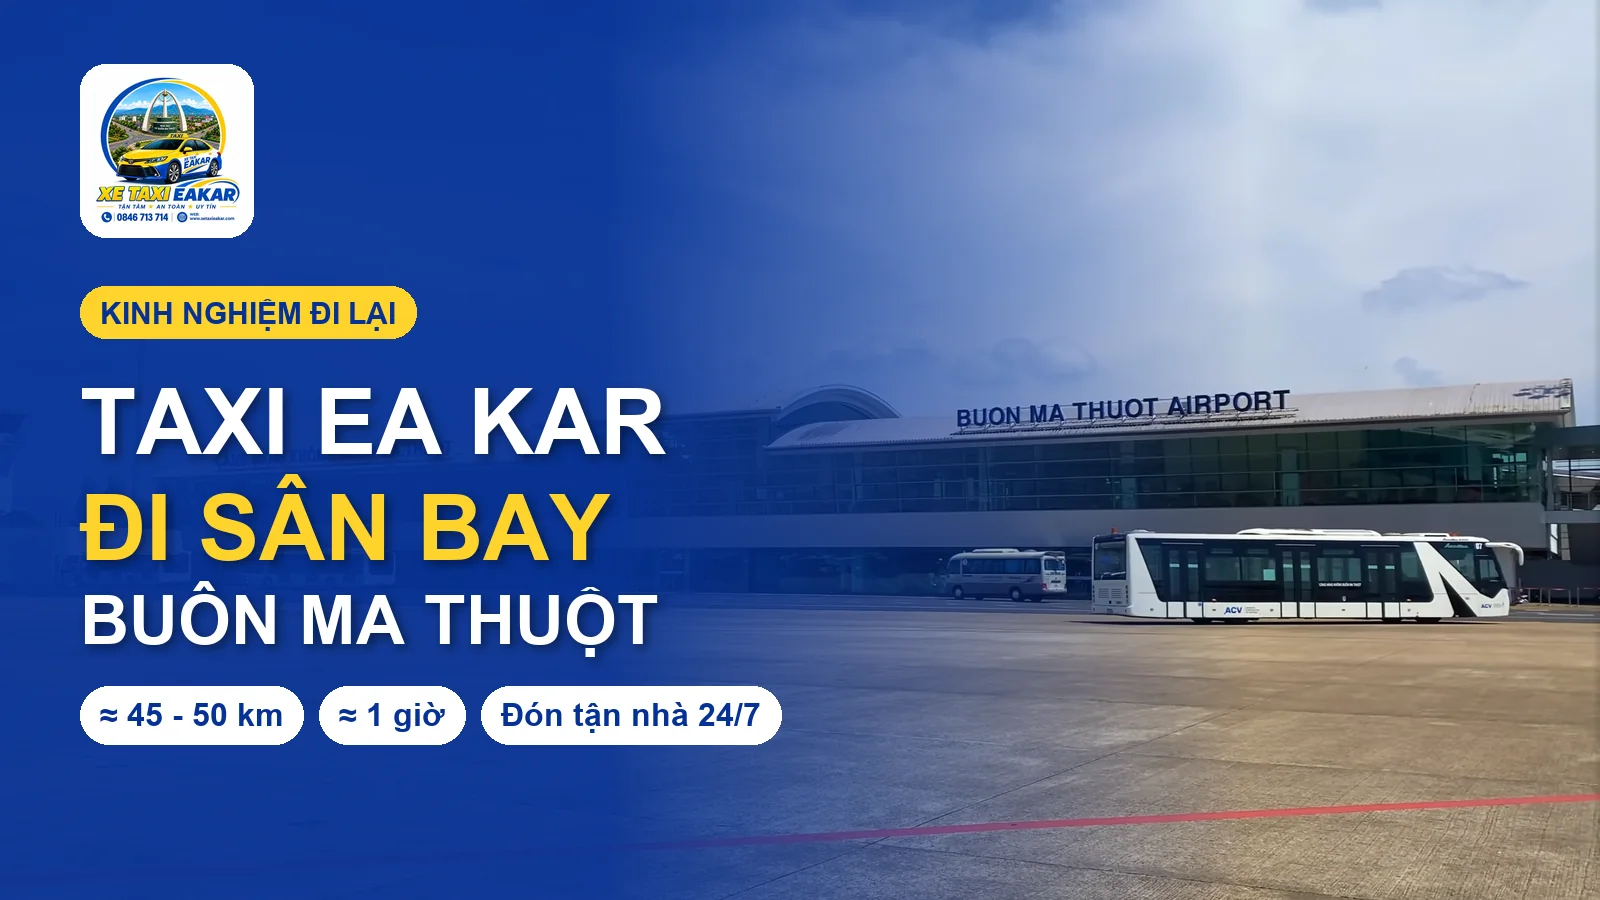
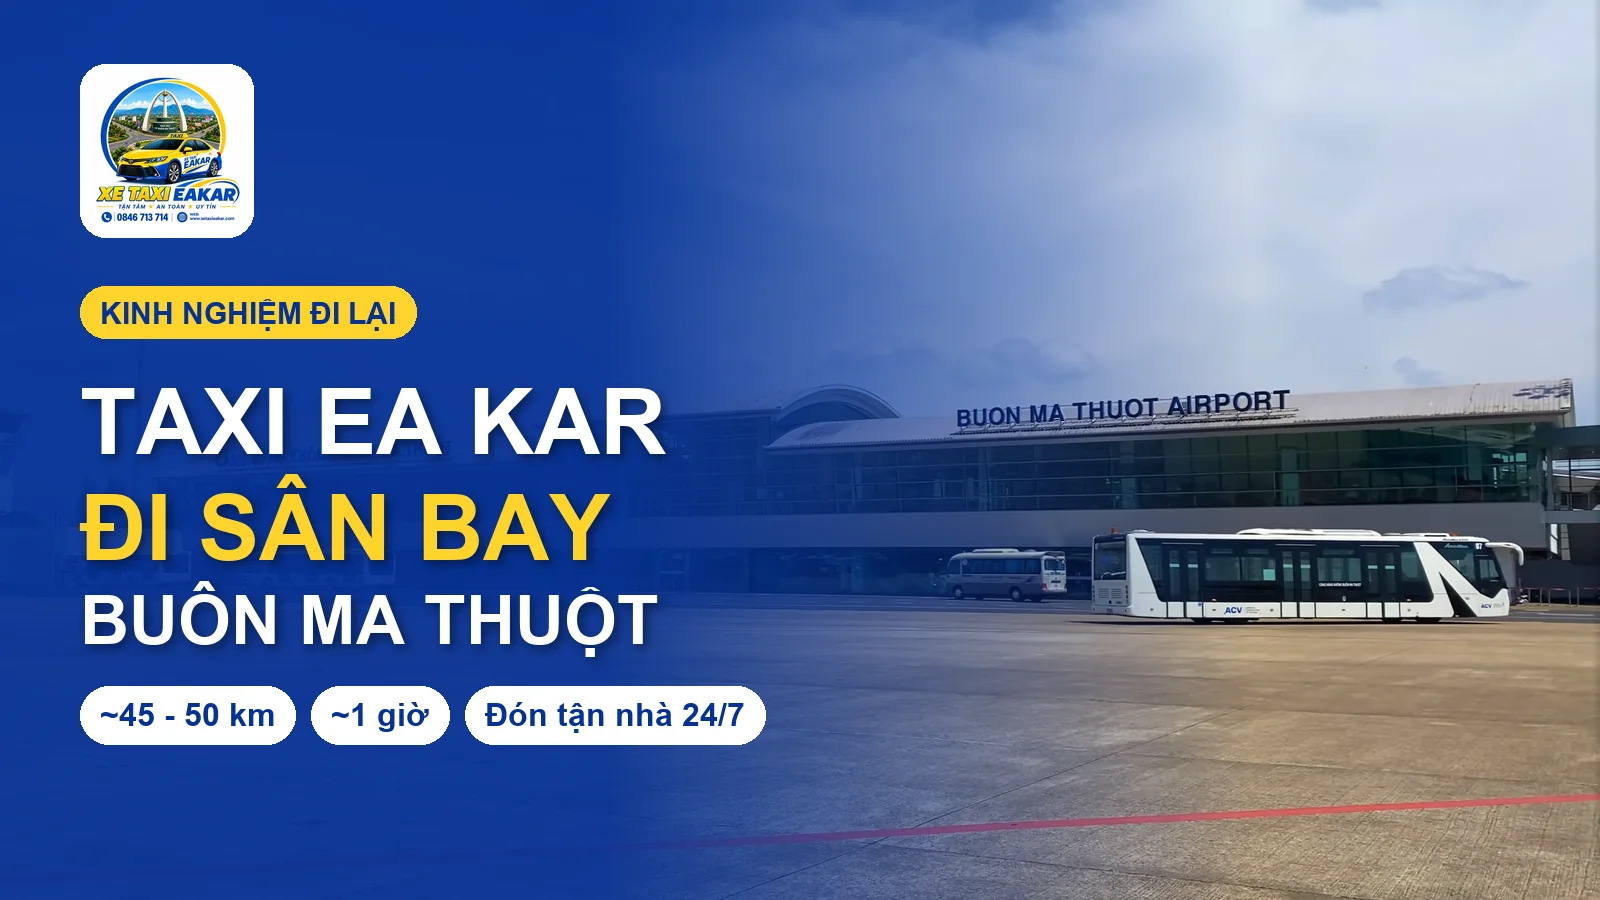
draft: taxieakar airport post - full image captions, no credit line, "~" chips on cover; mark approved

Changed region(s): [[0.0625, 0.7467, 0.5, 0.84]]

diff --git a/public/taxieakar.com.vn/taxi-ea-kar-di-san-bay-buon-ma-thuot/index.html b/public/taxieakar.com.vn/taxi-ea-kar-di-san-bay-buon-ma-thuot/index.html
@@ -255,14 +255,14 @@
 
                 <figure class="tv-gallery tv-gallery--wide" data-gallery aria-label="Hình ảnh sân bay Buôn Ma Thuột">
                   <ul class="tv-gallery-track">
-                    <li class="tv-gallery-item"><div class="tv-gallery-media" data-full="nha-ga-nhin-tu-san-do-1600.webp" data-review-img><span class="tv-gallery-no">01</span><img src="nha-ga-nhin-tu-san-do-720.webp" alt="Nhà ga Cảng hàng không Buôn Ma Thuột nhìn từ sân đỗ máy bay" width="720" height="540" loading="lazy" /></div><p class="tv-gallery-cap">Nhà ga sân bay Buôn Ma Thuột</p></li>
-                    <li class="tv-gallery-item"><div class="tv-gallery-media" data-full="sanh-lam-thu-tuc-1600.webp" data-review-img><span class="tv-gallery-no">02</span><img src="sanh-lam-thu-tuc-720.webp" alt="Sảnh làm thủ tục check-in bên trong nhà ga sân bay Buôn Ma Thuột" width="720" height="540" loading="lazy" /></div><p class="tv-gallery-cap">Sảnh làm thủ tục check-in</p></li>
-                    <li class="tv-gallery-item"><div class="tv-gallery-media" data-full="hanh-khach-ra-may-bay-1600.webp" data-review-img><span class="tv-gallery-no">03</span><img src="hanh-khach-ra-may-bay-720.webp" alt="Hành khách kéo hành lý đi bộ trên sân đỗ trước nhà ga sân bay Buôn Ma Thuột" width="720" height="540" loading="lazy" /></div><p class="tv-gallery-cap">Hành khách ra tàu bay</p></li>
-                    <li class="tv-gallery-item"><div class="tv-gallery-media" data-full="san-do-may-bay-1600.webp" data-review-img><span class="tv-gallery-no">04</span><img src="san-do-may-bay-720.webp" alt="Máy bay đỗ trên sân đỗ sân bay Buôn Ma Thuột" width="720" height="540" loading="lazy" /></div><p class="tv-gallery-cap">Máy bay trên sân đỗ</p></li>
+                    <li class="tv-gallery-item"><div class="tv-gallery-media" data-full="nha-ga-nhin-tu-san-do-1600.webp" data-review-img><span class="tv-gallery-no">01</span><img src="nha-ga-nhin-tu-san-do-720.webp" alt="Nhà ga Cảng hàng không Buôn Ma Thuột nhìn từ sân đỗ máy bay" width="720" height="540" loading="lazy" /></div><p class="tv-gallery-cap">Nhà ga Cảng hàng không Buôn Ma Thuột nhìn từ sân đỗ, nằm ở phía đông thành phố, phía cửa ngõ đi từ Ea Kar lên.</p></li>
+                    <li class="tv-gallery-item"><div class="tv-gallery-media" data-full="sanh-lam-thu-tuc-1600.webp" data-review-img><span class="tv-gallery-no">02</span><img src="sanh-lam-thu-tuc-720.webp" alt="Sảnh làm thủ tục check-in bên trong nhà ga sân bay Buôn Ma Thuột" width="720" height="540" loading="lazy" /></div><p class="tv-gallery-cap">Sảnh làm thủ tục bên trong nhà ga. Có mặt trước giờ bay 90 phút đến 2 tiếng để check-in và gửi hành lý thoải mái.</p></li>
+                    <li class="tv-gallery-item"><div class="tv-gallery-media" data-full="hanh-khach-ra-may-bay-1600.webp" data-review-img><span class="tv-gallery-no">03</span><img src="hanh-khach-ra-may-bay-720.webp" alt="Hành khách kéo hành lý đi bộ trên sân đỗ trước nhà ga sân bay Buôn Ma Thuột" width="720" height="540" loading="lazy" /></div><p class="tv-gallery-cap">Hành khách kéo hành lý đi bộ ra tàu bay trên sân đỗ trước nhà ga sân bay Buôn Ma Thuột.</p></li>
+                    <li class="tv-gallery-item"><div class="tv-gallery-media" data-full="san-do-may-bay-1600.webp" data-review-img><span class="tv-gallery-no">04</span><img src="san-do-may-bay-720.webp" alt="Máy bay đỗ trên sân đỗ sân bay Buôn Ma Thuột" width="720" height="540" loading="lazy" /></div><p class="tv-gallery-cap">Máy bay đỗ chờ đón khách trên sân đỗ. Sân bay khai thác các chuyến bay nội địa đi Hà Nội, TP. Hồ Chí Minh và một số tỉnh thành khác.</p></li>
                   </ul>
                   <button type="button" class="tv-gallery-btn tv-gallery-btn--prev" aria-label="Ảnh trước"><svg viewBox="0 0 24 24" fill="none" stroke="currentColor" stroke-width="2.6" stroke-linecap="round" stroke-linejoin="round"><path d="m15 18-6-6 6-6"/></svg></button>
                   <button type="button" class="tv-gallery-btn tv-gallery-btn--next" aria-label="Ảnh tiếp theo"><svg viewBox="0 0 24 24" fill="none" stroke="currentColor" stroke-width="2.6" stroke-linecap="round" stroke-linejoin="round"><path d="m9 18 6-6-6-6"/></svg></button>
-                  <figcaption class="tv-gallery-caption">Bấm vào ảnh để xem lớn. Nhà ga, sảnh làm thủ tục và sân đỗ của Cảng hàng không Buôn Ma Thuột.</figcaption>
+                  <figcaption class="tv-gallery-caption">Một vòng Cảng hàng không Buôn Ma Thuột: nhà ga, sảnh làm thủ tục và sân đỗ máy bay. Bấm vào ảnh để xem lớn.</figcaption>
                 </figure>
 
                 <ul>
@@ -328,8 +328,6 @@
                     <a class="tv-btn tv-btn--zalo" href="https://zalo.me/0368395396" rel="nofollow noopener">💬 Chat Zalo</a>
                   </div>
                 </div>
-
-                <p class="tv-credit"><small>Nguồn ảnh sân bay Buôn Ma Thuột (Wikimedia Commons): Trước nhà ga: <a href="https://commons.wikimedia.org/wiki/File:Nh%C3%A0_ga_s%C3%A2n_bay_BMT.jpg" rel="nofollow noopener" target="_blank">ASM~viwiki</a> (<a href="https://creativecommons.org/licenses/by-sa/3.0" rel="nofollow noopener" target="_blank">CC BY-SA 3.0</a>); Nhà ga: <a href="https://commons.wikimedia.org/wiki/File:Buon_Ma_Thuot_airport.jpg" rel="nofollow noopener" target="_blank">[Tycho]</a> (<a href="https://creativecommons.org/licenses/by-sa/3.0" rel="nofollow noopener" target="_blank">CC BY-SA 3.0</a>); Sảnh làm thủ tục: <a href="https://commons.wikimedia.org/wiki/File:Buon_Ma_Thuot_Airport2.JPG" rel="nofollow noopener" target="_blank">[Tycho]</a> (<a href="https://creativecommons.org/licenses/by-sa/3.0" rel="nofollow noopener" target="_blank">CC BY-SA 3.0</a>); Hành khách ra tàu bay: <a href="https://commons.wikimedia.org/wiki/File:Buon_Ma_Thuot_Airport.JPG" rel="nofollow noopener" target="_blank">Easyroc75</a> (<a href="https://creativecommons.org/licenses/by/3.0" rel="nofollow noopener" target="_blank">CC BY 3.0</a>); Sân đỗ: <a href="https://commons.wikimedia.org/wiki/File:VNA_ATR-72_VN-B218_and_MKG_CRJ-900_at_VVBM.jpg" rel="nofollow noopener" target="_blank">ASM~viwiki at Vietnamese Wikipedia</a> (<a href="https://creativecommons.org/licenses/by-sa/3.0" rel="nofollow noopener" target="_blank">CC BY-SA 3.0</a>); Ảnh cover: <a href="https://commons.wikimedia.org/wiki/File:S%C3%A2n_%C4%91%E1%BB%97_m%C3%A1y_bay_S%C3%A2n_bay_Bu%C3%B4n_Ma_Thu%E1%BB%99t.png" rel="nofollow noopener" target="_blank">nlam.94</a> (<a href="https://creativecommons.org/licenses/by-sa/4.0" rel="nofollow noopener" target="_blank">CC BY-SA 4.0</a>).</small></p>
 
             </div>
           </article>

diff --git a/public/taxieakar.com.vn/_assets/css/blocks.css b/public/taxieakar.com.vn/_assets/css/blocks.css
@@ -354,3 +354,7 @@
 .tv-gallery--wide .tv-gallery-item{flex-basis:calc((100% - 12px)/2)}
 .tv-gallery--wide .tv-gallery-media{aspect-ratio:4/3}
 @media (max-width:640px){.tv-gallery--wide .tv-gallery-item{flex-basis:86%}}
+/* Caption đầy đủ nằm dưới ảnh (không đè lên ảnh) */
+.tv-gallery--wide .tv-gallery-media::after{display:none}
+.tv-gallery--wide .tv-gallery-cap{position:static;margin:8px 2px 0 !important;color:var(--color-text);font-size:14px;line-height:1.5;font-weight:400;text-shadow:none}
+.tv-gallery--wide .tv-gallery-btn{top:calc(50% - 60px)}
